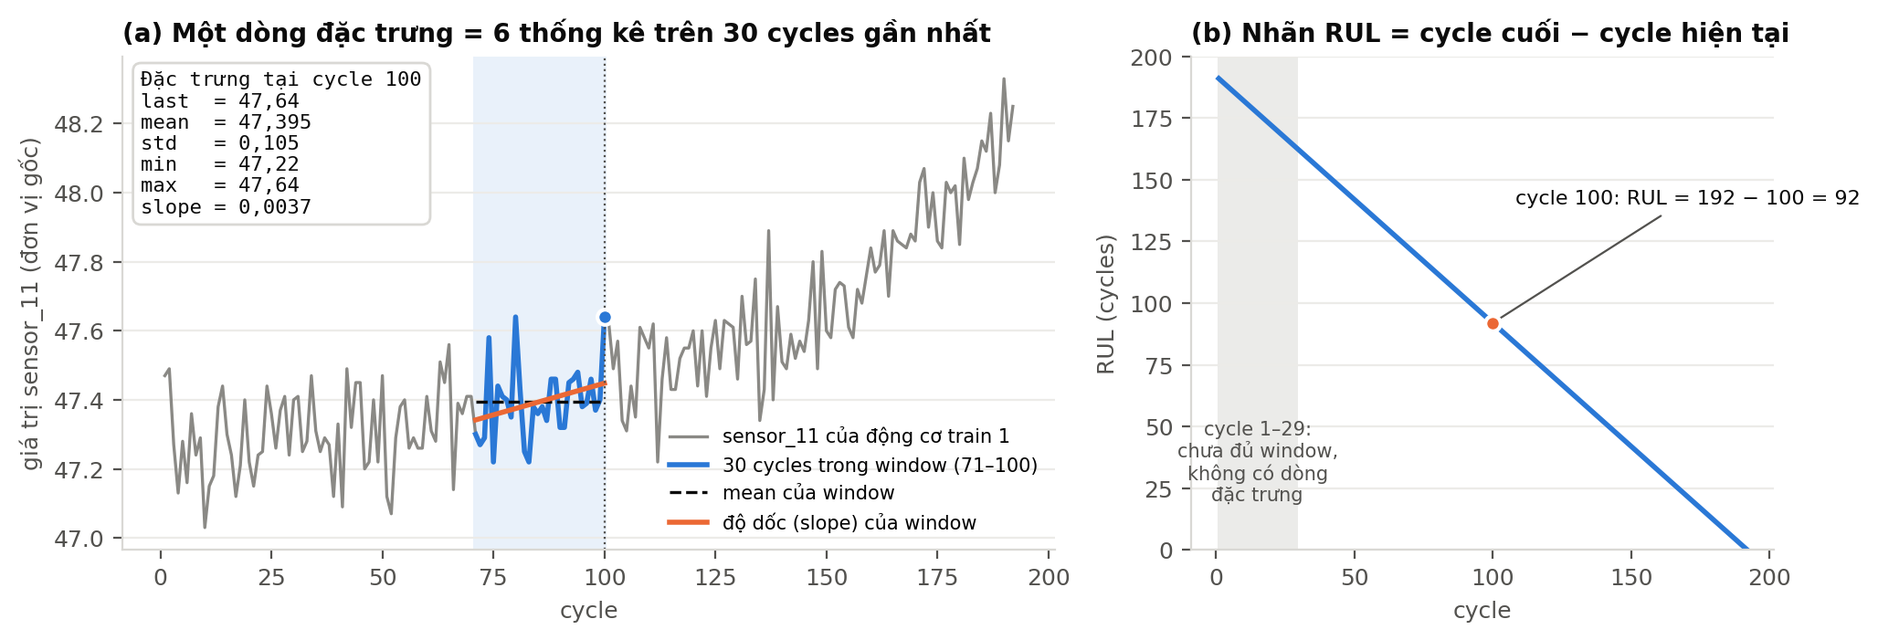
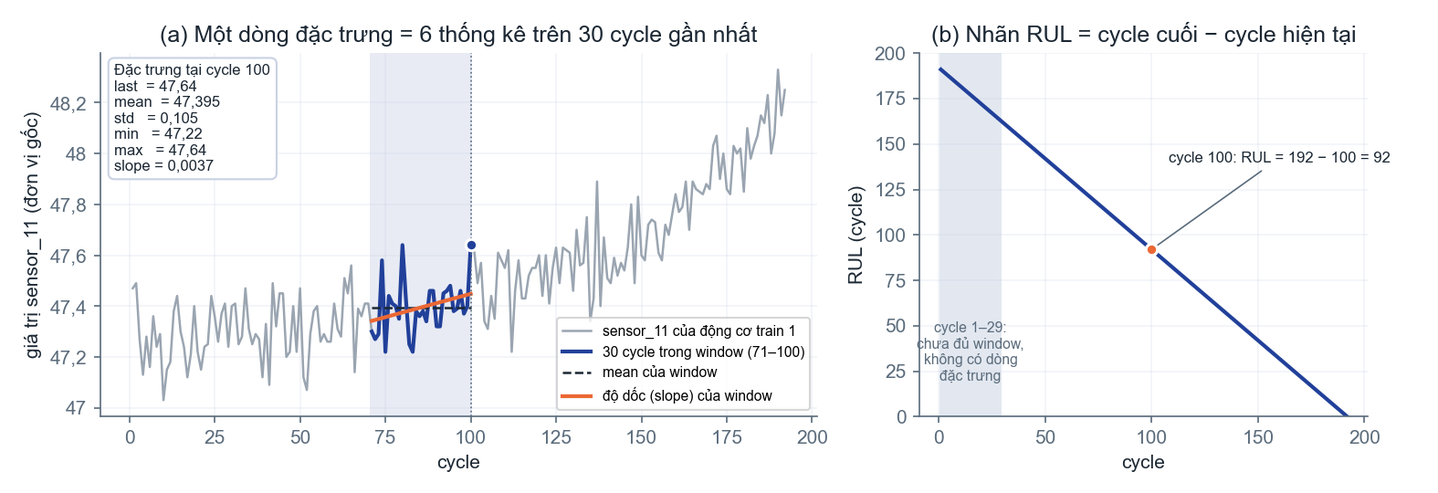
docs(report): redraw report figures in the shared style and finish the glossary pass
Regenerate the degradation, maintenance and diagnostics figures embedded in
the report with the shared palette and decimal-comma axes; all tables and JSON
under outputs/ are unchanged, so no number moved. Write 'cycle' in the
user-facing labels of the report figure scripts and the dashboard, replace the
remaining 'engine' wording in the report prose, and date the report 21/10/2026.

---

Vẽ lại các hình degradation, maintenance và diagnostics mà report nhúng bằng bảng
màu chung và trục dấu phẩy; mọi bảng và JSON trong outputs/ không đổi, nên không
số liệu nào thay đổi. Dùng 'cycle' trong nhãn hiển thị của script vẽ hình report và
dashboard, thay nốt chữ 'engine' trong văn bản report, và đổi ngày report thành
21/10/2026.

diff --git a/src/cmapss/dashboard_app.py b/src/cmapss/dashboard_app.py
@@ -189,7 +189,7 @@ def _rul_trajectory_chart(frame: pd.DataFrame, series: dict[str, str], *, marker
         .mark_line(strokeWidth=2)
         .encode(
             x=alt.X("cycle:Q", title="Cycle"),
-            y=alt.Y("RUL:Q", title="RUL (cycles)"),
+            y=alt.Y("RUL:Q", title="RUL (cycle)"),
             color=alt.Color("Đường:N", scale=alt.Scale(domain=names, range=colors), legend=alt.Legend(orient="top")),
             strokeDash=alt.condition(alt.datum["Đường"] == names[0], alt.value([5, 3]), alt.value([1, 0])),
             tooltip=["cycle:Q", "Đường:N", alt.Tooltip("RUL:Q", format=".2f")],
@@ -216,12 +216,12 @@ def page_overview(data: DashboardData, degradation: DegradationData, maintenance
     _metric_row(
         [
             ("Cần bảo trì ngay", f"{maintenance.summary['status_counts']['Cần bảo trì']} động cơ",
-             "RUL dự đoán ≤ 30 cycles tại cycle quan sát cuối."),
+             "RUL dự đoán ≤ 30 cycle tại cycle quan sát cuối."),
             ("Báo cần bảo trì đúng",
              f"{evaluation['n_correct_needs_maintenance']}/{evaluation['n_flagged_needs_maintenance']}",
              "Kiểm tra bằng nhãn test sau khi lịch đã được ghi ra file."),
             ("Bất thường báo trước hỏng", f"{format_metric(anomaly['lead_median'], 0)} cycles",
-             "Trung vị trên 100 động cơ train; Health Index giảm quá 3σ so với 30 cycles đầu."),
+             "Trung vị trên 100 động cơ train; Health Index giảm quá 3σ so với 30 cycle đầu."),
             ("MAE RUL trên test", f"{format_metric(metrics.get('mean_engine_mae', 0), 2)} cycles",
              "Sai số tuyệt đối trung bình tại cycle quan sát cuối của 100 động cơ test."),
         ]
@@ -232,7 +232,7 @@ def page_overview(data: DashboardData, degradation: DegradationData, maintenance
         ("1. Thu thập", "File text train/test/RUL FD001, kiểm tra schema"),
         ("2. ETL", "Pandas = PySpark → Silver Parquet, Gold SQLite"),
         ("3. Khử nhiễu", "EWMA span 10, chỉ dùng quá khứ"),
-        ("4. Window", "30 cycles → 126 đặc trưng"),
+        ("4. Window", "30 cycle → 126 đặc trưng"),
         ("5. Bất thường", "Health Index giảm quá 3σ: cảnh báo mức 1"),
         ("6. RUL", "HGB, GroupKFold theo động cơ"),
         ("7. Bảo trì", "RUL ≤ 30: cảnh báo mức 2, lịch bảo trì"),
@@ -244,7 +244,7 @@ def page_overview(data: DashboardData, degradation: DegradationData, maintenance
     _card(
         "Đọc kết quả trong một câu",
         f"Tại điểm quan sát cuối, {maintenance.summary['status_counts']['Cần bảo trì']} động cơ cần bảo trì ngay và "
-        f"{maintenance.summary['planning']['1–25']} động cơ đến hạn trong 25 cycles tới; mọi động cơ được báo cần bảo trì đều "
+        f"{maintenance.summary['planning']['1–25']} động cơ đến hạn trong 25 cycle tới; mọi động cơ được báo cần bảo trì đều "
         "có RUL thật ≤ 30.",
     )
     with st.expander("Gợi ý thứ tự demo (khoảng 3 phút)"):
@@ -276,7 +276,7 @@ def page_exploration(exploration: ExplorationData) -> None:
             alt.Chart(lifetimes)
             .mark_bar(color=PALETTE["pred"])
             .encode(
-                x=alt.X("n_observations:Q", bin=alt.Bin(step=20), title="Tuổi thọ (cycles)"),
+                x=alt.X("n_observations:Q", bin=alt.Bin(step=20), title="Tuổi thọ (cycle)"),
                 y=alt.Y("count():Q", title="Số động cơ"),
                 tooltip=[alt.Tooltip("count():Q", title="Số động cơ")],
             )
@@ -407,7 +407,7 @@ def page_rul(data: DashboardData) -> None:
         direction = "cao hơn" if record["y_pred"] > record["y_true"] else "thấp hơn"
         _card(
             f"Động cơ {engine_id:03d}",
-            f"Sai số tuyệt đối {format_metric(record['absolute_error'])} cycles; RUL dự đoán {direction} RUL thật. "
+            f"Sai số tuyệt đối {format_metric(record['absolute_error'])} cycle; RUL dự đoán {direction} RUL thật. "
             "Mỗi động cơ test chỉ có một dòng đánh giá tại cycle cuối.",
         )
         evaluation = data.model_evaluation.assign(
@@ -421,8 +421,8 @@ def page_rul(data: DashboardData) -> None:
             alt.Chart(evaluation)
             .mark_circle()
             .encode(
-                x=alt.X("y_true:Q", title="RUL thật (cycles)", scale=alt.Scale(domain=[0, upper])),
-                y=alt.Y("y_pred:Q", title="RUL dự đoán (cycles)", scale=alt.Scale(domain=[0, upper])),
+                x=alt.X("y_true:Q", title="RUL thật (cycle)", scale=alt.Scale(domain=[0, upper])),
+                y=alt.Y("y_pred:Q", title="RUL dự đoán (cycle)", scale=alt.Scale(domain=[0, upper])),
                 color=alt.condition(alt.datum.chosen, alt.value(PALETTE["alert"]), alt.value(PALETTE["pred"])),
                 size=alt.condition(alt.datum.chosen, alt.value(160), alt.value(45)),
                 opacity=alt.condition(alt.datum.chosen, alt.value(1.0), alt.value(0.55)),
@@ -433,8 +433,8 @@ def page_rul(data: DashboardData) -> None:
             alt.Chart(evaluation)
             .mark_circle()
             .encode(
-                x=alt.X("y_true:Q", title="RUL thật (cycles)"),
-                y=alt.Y("residual:Q", title="Dự đoán − thật (cycles)"),
+                x=alt.X("y_true:Q", title="RUL thật (cycle)"),
+                y=alt.Y("residual:Q", title="Dự đoán − thật (cycle)"),
                 color=alt.condition(alt.datum.chosen, alt.value(PALETTE["alert"]), alt.value(PALETTE["pred"])),
                 size=alt.condition(alt.datum.chosen, alt.value(160), alt.value(45)),
                 tooltip=tooltip,
@@ -466,7 +466,7 @@ def page_rul(data: DashboardData) -> None:
         st.altair_chart(_rul_trajectory_chart(trajectory, {"y_true": "RUL thật", "y_pred": "RUL dự đoán (OOF)"}), width="stretch")
         st.caption(
             "Dự đoán chéo theo fold (OOF): mô hình tạo ra các dự đoán này không học động cơ đang xem. Đường chấm ngang là ngưỡng "
-            f"{RUL_THRESHOLD} cycles. Dữ liệu này cũng đã dùng để chọn mô hình, nên đây là đánh giá nội bộ."
+            f"{RUL_THRESHOLD} cycle. Dữ liệu này cũng đã dùng để chọn mô hình, nên đây là đánh giá nội bộ."
         )
 
 
@@ -485,7 +485,7 @@ def page_warning(data: DashboardData) -> None:
         "Cách đọc",
         "Dự đoán ở trang này là dự đoán chéo theo fold (OOF) trên 100 động cơ train: mỗi động cơ được dự đoán bởi mô hình "
         "không học động cơ đó. Đây cũng là dữ liệu dùng để chọn mô hình, nên kết quả có phần lạc quan. Mọi động cơ train "
-        "đều đi đến hỏng, nên không tính được tỷ lệ báo động giả. Ngưỡng 30 cycles chưa hiệu chuẩn theo chi phí bảo trì.",
+        "đều đi đến hỏng, nên không tính được tỷ lệ báo động giả. Ngưỡng 30 cycle chưa hiệu chuẩn theo chi phí bảo trì.",
         kind="limit",
     )
 
@@ -507,7 +507,7 @@ def page_warning(data: DashboardData) -> None:
         st.altair_chart(chart, width="stretch")
         distribution = summary["lead_time_distribution"]
         st.caption(
-            f"Lead time (cycles), n={distribution['n']}: min={distribution['min']}; Q1={distribution['q25']}; "
+            f"Lead time (cycle), n={distribution['n']}: min={distribution['min']}; Q1={distribution['q25']}; "
             f"median={distribution['median']}; Q3={distribution['q75']}; max={distribution['max']}."
         )
     with right:
@@ -519,7 +519,7 @@ def page_warning(data: DashboardData) -> None:
         st.altair_chart(_rul_trajectory_chart(trajectory, {"y_true": "RUL thật", "y_pred": "RUL dự đoán (OOF)"}, marker_cycle=marker), width="stretch")
         st.caption(
             f"Vạch đỏ: cảnh báo đầu tiên tại cycle {event['first_warning_cycle']:.0f}, RUL thật khi đó "
-            f"{event['actual_rul_at_first_warning']:.0f} cycles ({TIMING_LABELS.get(event['warning_timing'], event['warning_timing'])})."
+            f"{event['actual_rul_at_first_warning']:.0f} cycle ({TIMING_LABELS.get(event['warning_timing'], event['warning_timing'])})."
         )
 
     table = events[
@@ -532,8 +532,8 @@ def page_warning(data: DashboardData) -> None:
                     "engine_id": "Động cơ",
                     "first_warning_cycle": "Cycle cảnh báo đầu",
                     "actual_rul_at_first_warning": "RUL thật tại cảnh báo",
-                    "lead_time_to_failure_cycles": "Lead time (cycles)",
-                    "threshold_delay_cycles": "Độ trễ so với ngưỡng (cycles)",
+                    "lead_time_to_failure_cycles": "Lead time (cycle)",
+                    "threshold_delay_cycles": "Độ trễ so với ngưỡng (cycle)",
                     "warning_timing": "Phân loại thời điểm",
                     "missed_warning": "Không từng cảnh báo",
                 }
@@ -549,8 +549,8 @@ def page_cross_dataset(matrix: pd.DataFrame) -> None:
     _card(
         "Cách làm",
         f"Nội bộ: huấn luyện và kiểm tra trong cùng một subset. Chuyển miền: giữ nguyên mô hình học trên FD001 để dự đoán "
-        f"test của FD002–FD004, không học lại. Dùng window {window} cycles vì động cơ test ngắn nhất của FD004 chỉ có "
-        "19 cycles; vì vậy không so trực tiếp với kết quả FD001 chính dùng window 30.",
+        f"test của FD002–FD004, không học lại. Dùng window {window} cycle vì động cơ test ngắn nhất của FD004 chỉ có "
+        "19 cycle; vì vậy không so trực tiếp với kết quả FD001 chính dùng window 30.",
     )
     labeled = matrix.assign(
         Evaluation=lambda frame: frame["source"] + " → " + frame["target"],
@@ -634,7 +634,7 @@ def page_improvement(experiment: ImprovementData) -> None:
     st.dataframe(ablation.rename(columns={"stage": "Phương án", **METRIC_LABELS}), hide_index=True, width="stretch")
     st.caption(
         "Tỷ lệ thời gian báo sớm: tỷ lệ cycle có cảnh báo khi RUL thật còn trên 30, tính riêng từng động cơ rồi lấy trung bình. "
-        "Ngưỡng nghiên cứu là 30 cycles."
+        "Ngưỡng nghiên cứu là 30 cycle."
     )
 
     st.subheader("Chênh lệch so với mô hình gốc và khoảng tin cậy 95%")
@@ -820,7 +820,7 @@ def page_denoise(degradation: DegradationData) -> None:
         )
         st.altair_chart(bars, width="stretch")
     with right:
-        _card("Vai trò trong pipeline", "Tín hiệu EWMA đi vào Health Index và phát hiện bất thường. Mô hình RUL dùng window 30 cycles "
+        _card("Vai trò trong pipeline", "Tín hiệu EWMA đi vào Health Index và phát hiện bất thường. Mô hình RUL dùng window 30 cycle "
               "trên tín hiệu gốc, vì trung bình và độ dốc trên window cũng làm dịu dao động.")
         _card("Giới hạn", "Dữ liệu không có tín hiệu sạch để đối chiếu, nên đây là mức giảm dao động, chưa chứng minh đã loại đúng "
               "nhiễu đo. Span 10 được cố định trước, không tinh chỉnh theo kết quả.", kind="limit")
@@ -860,7 +860,7 @@ def page_anomaly(degradation: DegradationData) -> None:
     layers.append(alt.Chart(pd.DataFrame({"x": [float(event["failure_cycle"])]})).mark_rule(color="black").encode(x="x:Q"))
     st.altair_chart(alt.layer(*layers).properties(height=340).interactive(bind_y=False), width="stretch")
     detection = "chưa phát hiện" if not bool(event["detected"]) else (
-        f"phát hiện bất thường ở cycle {int(event['detection_cycle'])}, tức {int(event['lead_cycles'])} cycles trước khi hỏng")
+        f"phát hiện bất thường ở cycle {int(event['detection_cycle'])}, tức {int(event['lead_cycles'])} cycle trước khi hỏng")
     st.caption(
         f"Động cơ {engine_id:03d}: {detection}; hỏng ở cycle {int(event['failure_cycle'])}. Vùng xám là {config['baseline_cycles']} "
         f"cycles tham chiếu; đường đứt là ngưỡng {config['z_threshold']:g}σ; vạch cam là lúc phát hiện, vạch đen là lúc hỏng."
@@ -879,7 +879,7 @@ def page_anomaly(degradation: DegradationData) -> None:
         st.altair_chart(histogram, width="stretch")
     with right:
         _card("Quy tắc", f"So mỗi động cơ với chính nó ở giai đoạn vận hành ổn định: báo khi Health Index giảm quá {config['z_threshold']:g} độ lệch chuẩn "
-              f"so với {config['baseline_cycles']} cycles đầu, kéo dài {config['persistence']} cycles liên tiếp. Không dùng nhãn RUL.")
+              f"so với {config['baseline_cycles']} cycle đầu, kéo dài {config['persistence']} cycle liên tiếp. Không dùng nhãn RUL.")
         _card("Giới hạn", "Mọi động cơ train đều đi đến hỏng và không có nhãn thời điểm bắt đầu suy giảm, nên chưa đo được trực tiếp "
               "tỷ lệ báo động giả. Đây là cảnh báo mức 1: động cơ đã lệch khỏi trạng thái vận hành ổn định, chưa ước lượng thời gian "
               "còn lại.", kind="limit")
@@ -911,7 +911,7 @@ def page_anomaly(degradation: DegradationData) -> None:
         "nhiều trường hợp báo quá sớm hơn, ngưỡng cao thì ngược lại."
     )
     with st.expander("Hình kiểm định đầu/cuối vòng đời (outputs/statistics)"):
-        _figure("outputs/statistics/figures/effect_size_ci.png", "Chênh lệch trung bình 30 cycles cuối và đầu, khoảng tin cậy 95%")
+        _figure("outputs/statistics/figures/effect_size_ci.png", "Chênh lệch trung bình 30 cycle cuối và đầu, khoảng tin cậy 95%")
 
 
 def page_maintenance(maintenance: MaintenanceData) -> None:
@@ -920,10 +920,10 @@ def page_maintenance(maintenance: MaintenanceData) -> None:
     counts, evaluation = summary["status_counts"], summary["evaluation"]
     _metric_row(
         [
-            ("Cần bảo trì ngay", str(counts["Cần bảo trì"]), "RUL dự đoán ≤ 30 cycles."),
+            ("Cần bảo trì ngay", str(counts["Cần bảo trì"]), "RUL dự đoán ≤ 30 cycle."),
             ("Theo dõi tăng cường", str(counts["Theo dõi tăng cường"]), "Health Index đã báo bất thường, RUL dự đoán > 30."),
             ("Bình thường", str(counts["Bình thường"])),
-            ("Đến hạn trong 25 cycles tới", str(summary["planning"]["1–25"])),
+            ("Đến hạn trong 25 cycle tới", str(summary["planning"]["1–25"])),
         ]
     )
     chosen = st.multiselect("Lọc theo trạng thái", STATUS_ORDER, default=STATUS_ORDER, key="mt_status")
@@ -975,7 +975,7 @@ def page_maintenance(maintenance: MaintenanceData) -> None:
         if pd.notna(row["anomaly_cycle"]):
             layers.append(alt.Chart(pd.DataFrame({"x": [float(row["anomaly_cycle"])]})).mark_rule(color=COLORS["orange"], strokeWidth=2).encode(x="x:Q"))
         st.altair_chart(alt.layer(*layers).properties(height=200), width="stretch")
-        note = "chưa đủ 35 cycles để đánh giá bất thường" if not bool(status["anomaly_evaluable"]) else (
+        note = "chưa đủ 35 cycle để đánh giá bất thường" if not bool(status["anomaly_evaluable"]) else (
             f"bất thường từ cycle {int(row['anomaly_cycle'])}" if pd.notna(row["anomaly_cycle"]) else "chưa có dấu hiệu bất thường")
         st.caption(f"Động cơ {engine_id:03d} đang ở cycle {int(row['current_cycle'])}; {note}. Đường đứt là ngưỡng 3σ của động cơ này.")
 
@@ -986,7 +986,7 @@ def page_maintenance(maintenance: MaintenanceData) -> None:
     with check_right:
         _card("Kết quả", f"{evaluation['n_correct_needs_maintenance']}/{evaluation['n_flagged_needs_maintenance']} động cơ báo cần bảo trì "
               f"có RUL thật ≤ 30. Trong {evaluation['n_actual_needs_maintenance']} động cơ thật sự cần bảo trì, 4 động cơ còn lại có RUL "
-              "dự đoán 31–38 nên đến hạn sau 1–8 cycles và vẫn ở mức theo dõi.")
+              "dự đoán 31–38 nên đến hạn sau 1–8 cycle và vẫn ở mức theo dõi.")
         _card("Giới hạn", "Mức theo dõi còn rộng: 41/59 động cơ ở mức này có RUL thật trên 60. Lịch có thể lạc quan với từng động cơ, "
               "ví dụ động cơ 23. Ngưỡng 30 chưa được hiệu chuẩn theo chi phí bảo trì.", kind="limit")
 

diff --git a/scripts/report_figures.py b/scripts/report_figures.py
@@ -54,7 +54,7 @@ def window_example() -> Path:
     fig, (ax1, ax2) = plt.subplots(1, 2, figsize=(10.5, 3.6), gridspec_kw={"width_ratios": [1.6, 1]})
     ax1.axvspan(70.5, 100.5, color=BLUE, alpha=0.10, lw=0)
     ax1.plot(engine["cycle"], engine["sensor_11"], color=GRAY, lw=1.2, label="sensor_11 của động cơ train 1")
-    ax1.plot(window["cycle"], window["sensor_11"], color=BLUE, lw=2, label="30 cycles trong window (71–100)")
+    ax1.plot(window["cycle"], window["sensor_11"], color=BLUE, lw=2, label="30 cycle trong window (71–100)")
     ax1.hlines(row["sensor_11__mean"], 71, 100, color=INK, lw=1.2, ls="--", label="mean của window")
     k = window["cycle"].to_numpy()
     fit = row["sensor_11__mean"] + row["sensor_11__slope"] * (k - k.mean())
@@ -73,7 +73,7 @@ def window_example() -> Path:
     ax1.text(0.02, 0.97, text, transform=ax1.transAxes, va="top", ha="left", family=FONT,
              fontsize=8, color=INK, bbox={"facecolor": "white", "edgecolor": LIGHT_GRAY, "boxstyle": "round,pad=0.4"})
     ax1.set(xlabel="cycle", ylabel="giá trị sensor_11 (đơn vị gốc)",
-            title="(a) Một dòng đặc trưng = 6 thống kê trên 30 cycles gần nhất")
+            title="(a) Một dòng đặc trưng = 6 thống kê trên 30 cycle gần nhất")
     ax1.legend(loc="lower right", fontsize=7.5)
 
     ax2.axvspan(0.5, 29.5, color=LIGHT_GRAY, alpha=0.5, lw=0)
@@ -82,7 +82,7 @@ def window_example() -> Path:
     ax2.scatter([100], [92], s=36, color=ORANGE, edgecolor="white", lw=1.5, zorder=5)
     ax2.annotate("cycle 100: RUL = 192 − 100 = 92", xy=(100, 92), xytext=(108, 140), fontsize=8, color=INK,
                  arrowprops={"arrowstyle": "-", "color": INK_2, "lw": 0.8})
-    ax2.set(xlabel="cycle", ylabel="RUL (cycles)", title="(b) Nhãn RUL = cycle cuối − cycle hiện tại", ylim=(0, 200))
+    ax2.set(xlabel="cycle", ylabel="RUL (cycle)", title="(b) Nhãn RUL = cycle cuối − cycle hiện tại", ylim=(0, 200))
     fig.tight_layout()
     path = OUT / "window_example.png"
     style_figure(fig)
@@ -104,9 +104,9 @@ def oof_pred_vs_true() -> Path:
     ax.plot([0, 360], [0, 360], color=INK_2, lw=1, ls="--", label="dự đoán đúng (y = x)")
     ax.plot(centers, binned, color=ORANGE, lw=2, marker="o", ms=3.5, label="dự đoán trung bình theo khoảng RUL")
     ax.axhline(145, color=ORANGE, lw=0.8, ls=":")
-    ax.annotate("dự đoán trung bình ≈ 145 cycles\ndù RUL thật lớn hơn nhiều", xy=(290, 136), xytext=(285, 205),
+    ax.annotate("dự đoán trung bình ≈ 145 cycle\ndù RUL thật lớn hơn nhiều", xy=(290, 136), xytext=(285, 205),
                 fontsize=8, color=INK, ha="center", arrowprops={"arrowstyle": "-", "color": INK_2, "lw": 0.8})
-    ax.set(xlabel="RUL thật (cycles)", ylabel="RUL dự đoán OOF (cycles)", xlim=(0, 362), ylim=(0, 260),
+    ax.set(xlabel="RUL thật (cycle)", ylabel="RUL dự đoán OOF (cycle)", xlim=(0, 362), ylim=(0, 260),
            title="Dự đoán OOF của HGB trên 17.731 window train")
     ax.grid(axis="both")
     cb = fig.colorbar(hb, ax=ax, pad=0.02)
@@ -137,7 +137,7 @@ def warning_vs_lifetime() -> Path:
     ax.text(0.98, 0.95, f"r = {vn(r)}", transform=ax.transAxes, ha="right", va="top", fontsize=9, color=INK)
     ax.text(0.98, 0.05, "δ > 0: cảnh báo sau khi RUL thật đã dưới 30", transform=ax.transAxes, ha="right",
             fontsize=7.5, color=INK_2)
-    ax.set(xlabel="tuổi thọ của động cơ (cycle hỏng)", ylabel="độ lệch δ so với ngưỡng (cycles)",
+    ax.set(xlabel="tuổi thọ của động cơ (cycle hỏng)", ylabel="độ lệch δ so với ngưỡng (cycle)",
            title="Thời điểm cảnh báo đầu tiên theo tuổi thọ, 100 động cơ train")
     ax.grid(axis="both")
     ax.legend(loc="upper center", fontsize=8, ncol=3, bbox_to_anchor=(0.5, -0.18))
@@ -177,7 +177,7 @@ def transfer_shift() -> Path:
     for box, color in zip(parts["boxes"], colors):
         box.set(facecolor=color, edgecolor="white", lw=1.5)
     ax2.set_xticks([2, 6, 10], ["test FD002", "test FD003", "test FD004"])
-    ax2.set(ylabel="RUL (cycles)", title="(b) Mô hình FD001 dự đoán gần như hằng số trên FD002, FD004")
+    ax2.set(ylabel="RUL (cycle)", title="(b) Mô hình FD001 dự đoán gần như hằng số trên FD002, FD004")
     handles = [plt.Rectangle((0, 0), 1, 1, color=c) for c in (LIGHT_GRAY, BLUE, ORANGE)]
     ax2.legend(handles, ["RUL thật", "dự đoán, huấn luyện nội bộ", "dự đoán của mô hình FD001"], fontsize=7.5,
                loc="upper center", ncol=3, bbox_to_anchor=(0.5, -0.22))
@@ -214,7 +214,7 @@ def cross_dataset_mae() -> Path:
             ax.text(hi + 1.2, i + offset, vn(mae), va="center", fontsize=7.5, color=INK)
     ax.set_yticks(range(len(targets)), [f"test {t}" for t in targets])
     ax.invert_yaxis()
-    ax.set(xlabel="MAE theo động cơ (cycles), khoảng tin cậy bootstrap 95%", xlim=(0, 75),
+    ax.set(xlabel="MAE theo động cơ (cycle), khoảng tin cậy bootstrap 95%", xlim=(0, 75),
            title="Ma trận đánh giá với window 10 cycles")
     ax.grid(axis="x")
     ax.grid(axis="y", visible=False)

diff --git a/scripts/build_followup_summary.py b/scripts/build_followup_summary.py
@@ -97,7 +97,7 @@ quy trình chọn làm tăng cảnh báo trễ. Do đó không thay baseline the
 """ + f"\n{improved}/100 test engines giảm absolute error. Engine {int(worst.engine_id)} có RUL thật {worst.y_true:.0f}, dự đoán tăng từ {worst.y_pred_baseline:.2f} lên {worst.y_pred_new:.2f}; NASA component tăng từ {worst.nasa_score_component_baseline:.2f} lên {worst.nasa_score_component_new:.2f}. Một số dự đoán quá cao làm NASA score tăng dù MAE trung bình giảm.\n" + """
 
 FD001: window 30, tám cấu hình cap {None,110,125,140} × history {off,on}.
-History thêm 42 features: độ lệch sensor so với 30 cycles đầu và slope của toàn
+History thêm 42 features: độ lệch sensor so với 30 cycle đầu và slope của toàn
 bộ prefix đã quan sát. Ví dụ tại cycle 40, feature không dùng cycle 41 trở đi.
 Nhãn validation/test giữ nguyên; chỉ nhãn huấn luyện được cắt ngưỡng.
 
@@ -212,7 +212,7 @@ outputs/benchmarks/20260929/
         + "\n\nProtocol, giới hạn và cách tái lập: [báo cáo bổ sung](../../../experiments/FOLLOWUP_20260929.md).\n", encoding="utf-8")
     tex = [r"% Generated by scripts/build_followup_summary.py; author: Phan Nguyễn Mai Phương, MSHV 25002711.",
            r"\begin{table}[H]\centering\small",
-           r"\caption{Follow-up nested CV: MAE vòng ngoài và test (cycles). Tiêu chí được chốt riêng cho từng nghiên cứu.}",
+           r"\caption{Follow-up nested CV: MAE vòng ngoài và test (cycle). Tiêu chí được chốt riêng cho từng nghiên cứu.}",
            r"\label{tab:followup}\begin{tabular}{lrrrr}\toprule",
            r"Subset & Outer baseline & Outer chọn & Test chọn & Đạt tiêu chí\\\midrule"]
     number = lambda value: f"{value:.2f}".replace(".", ",")
@@ -220,7 +220,7 @@ outputs/benchmarks/20260929/
         tex.append(f"{row.dataset} & {number(row.baseline_outer_mae)} & {number(row.selected_outer_mae)} & {number(row.test_mae)} & {'Có' if row.outer_gate_passed else 'Không'}" + r"\\")
     tex.extend([r"\bottomrule\end{tabular}\end{table}"])
     fd = summary.iloc[0]
-    tex.append(f"FD001: MAE RUL thấp {number(fd.baseline_low_mae)} chuyển thành {number(fd.selected_low_mae)} cycles; cảnh báo trễ/bỏ lỡ {fd.baseline_late} chuyển thành {fd.selected_late}/100. Test NASA score tăng từ {number(fd.historical_test_nasa_score)} lên {number(fd.test_nasa_score)}, dù MAE giảm. Vì vậy giữ baseline mặc định.")
+    tex.append(f"FD001: MAE RUL thấp {number(fd.baseline_low_mae)} chuyển thành {number(fd.selected_low_mae)} cycle; cảnh báo trễ/bỏ lỡ {fd.baseline_late} chuyển thành {fd.selected_late}/100. Test NASA score tăng từ {number(fd.historical_test_nasa_score)} lên {number(fd.test_nasa_score)}, dù MAE giảm. Vì vậy giữ baseline mặc định.")
     tex.extend([r"\begin{table}[H]\centering\small",
                 r"\caption{Benchmark local, trung vị ba lượt; thời gian giây, RSS gồm Python và JVM. Cột Pipeline không gồm startup; tổng thời gian gồm startup được lưu trong artifact.}",
                 r"\label{tab:followup-benchmark}\begin{tabular}{lrrrrrr}\toprule",

diff --git a/report/sections/current-results.tex b/report/sections/current-results.tex
@@ -19,12 +19,12 @@ dòng và tập test có 13.096 dòng, mỗi tập 100 động cơ; 100 nhãn te
 trúc. Không có giá trị thiếu, nên pipeline không cần điền hay xóa dòng.
 
 ETL tạo lớp Silver gồm 33.727 quan sát train/test và 20.631 nhãn train, cùng lớp
-Gold gồm 200 dòng engine summary trong Parquet và SQLite. Mọi bảng được đọc lại
+Gold gồm 200 dòng \texttt{engine\_summary} trong Parquet và SQLite. Mọi bảng được đọc lại
 sau khi ghi để kiểm tra. Trên cả ba bảng, kết quả PySpark khớp hoàn toàn với
 Pandas về schema, khóa, số dòng và giá trị; sai khác tuyệt đối lớn nhất bằng 0.
 Rolling features 30 cycle tính bằng Spark cũng khớp toàn bộ 27.927 dòng của
 Pandas với tolerance $10^{-7}$. Trên cụm Hadoop một node, MapReduce và Spark đọc
-dữ liệu từ HDFS cũng cho bảng engine summary khớp tuyệt đối với Pandas (200/200
+dữ liệu từ HDFS cũng cho bảng \texttt{engine\_summary} khớp tuyệt đối với Pandas (200/200
 động cơ, Mục~\ref{sec:dp-hdfs}).
 
 Bảng~\ref{tab:followup-benchmark} đo toàn bộ pipeline (đọc Parquet, tổng hợp,

diff --git a/report/sections/data-processing.tex b/report/sections/data-processing.tex
@@ -51,7 +51,7 @@ mỗi dòng được gắn thêm cột \texttt{split} để biết nó thuộc t
 và 27 cột.
 
 
-Cột \texttt{split} là cần thiết vì động cơ train 1 và test engine 1 là hai động cơ
+Cột \texttt{split} là cần thiết vì động cơ train 1 và động cơ test 1 là hai động cơ
 khác nhau nhưng có cùng \texttt{(engine\_id, cycle)}. Sau khi nối, cặp
 \texttt{(engine\_id, cycle)} bị trùng, còn bộ ba \textbf{\texttt{(split, engine\_id,
 cycle)}} là duy nhất; đây là khóa của mọi bảng ở cấp cycle. File nhãn

diff --git a/report/main.tex b/report/main.tex
@@ -17,7 +17,7 @@
 \renewcommand{\figurename}{Hình}
 \renewcommand{\tablename}{Bảng}
 \renewcommand{\refname}{Tài liệu tham khảo}
-\newcommand{\reportdate}{14/10/2026}
+\newcommand{\reportdate}{21/10/2026}
 \newcommand{\filepath}[1]{\nolinkurl{#1}}
 \newcolumntype{L}[1]{>{\raggedright\arraybackslash}p{#1}}
 % Giữ bố cục học thuật nhưng đáp ứng giới hạn 40 trang của báo cáo.

diff --git a/report/README.md b/report/README.md
@@ -3,7 +3,7 @@
 **Học viên:** Phan Nguyễn Mai Phương · **MSHV:** 25002711.
 
 [Bản PDF](main.pdf) được biên dịch từ [main.tex](main.tex), cập nhật ngày
-12/10/2026. Báo cáo trình bày Đề tài 8 — phân tích dữ liệu IoT và bảo trì dự đoán
+21/10/2026. Báo cáo trình bày Đề tài 8 — phân tích dữ liệu IoT và bảo trì dự đoán
 trên NASA C-MAPSS FD001, theo thứ tự rubric: pipeline dữ liệu (6.1), khử nhiễu và
 cửa sổ thời gian (6.2), xu hướng và bất thường (6.3), dự đoán RUL (6.4), cảnh báo
 sớm (6.5), báo cáo dự đoán thời điểm cần bảo trì (6.6) và thử nghiệm mở rộng (6.7).
